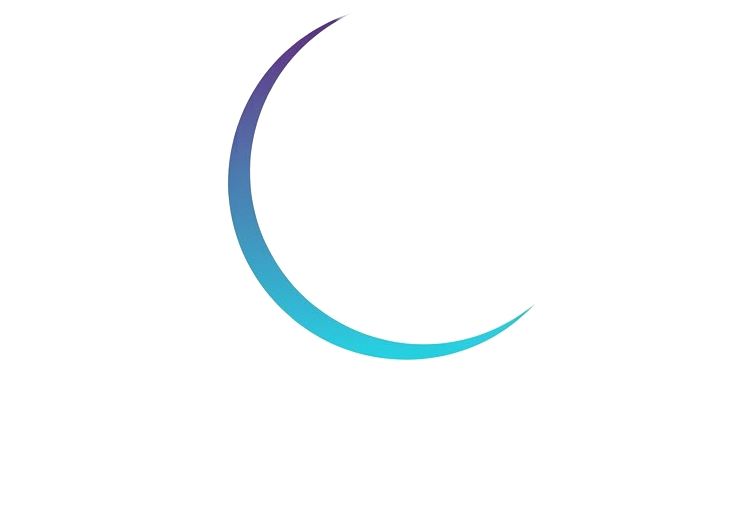
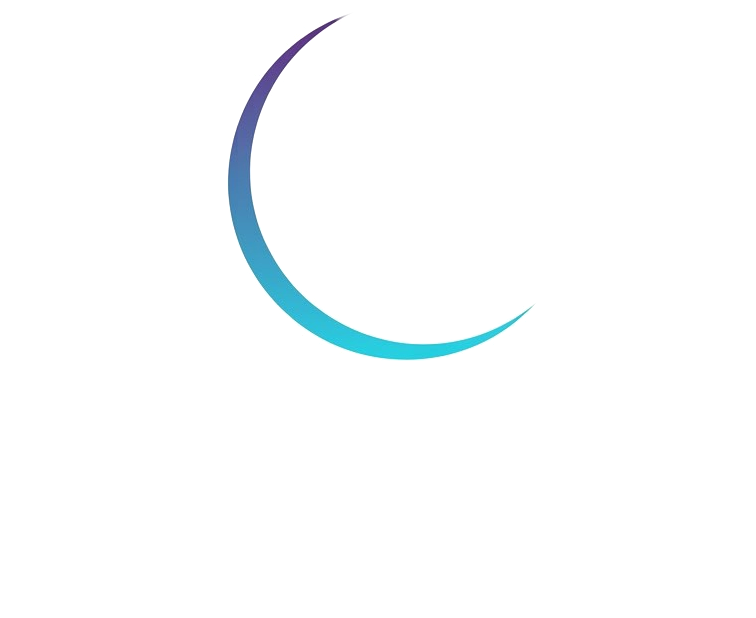
開啟畫面加回流星尾和星星，版本 1.1.1
Logo 右下的流星尾和星星做成第四個圖層（oneiroverse/trail.png），字標出現後劃過、閃一下。

Changed region(s): [[0.3005, 0.0309, 0.7213, 0.7104]]

diff --git a/oneiroverse/splash.js b/oneiroverse/splash.js
@@ -1,10 +1,10 @@
 // Oneiroverse 開啟畫面（所有 Oneiroverse 軟體共用，正本在 OneiHub/brand-kit/，改完用 sync.ps1 複製到各 App）。
 //
 // 用法一：<body> 的第一個元素放 <script src=".../splash.js"></script>，載入時自動在整個視窗上播一次。
-//   同資料夾要有 crescent.png、o.png、wordmark.png（source/make_splash.py 從 Logo 原圖產生）。
+//   同資料夾要有 crescent.png、o.png、wordmark.png、trail.png（source/make_splash.py 從 Logo 原圖產生）。
 //   重新整理 / 上一頁不會再播。<script> 加 data-manual 就只載入不自動播。
 // 用法二：OneiroverseSplash.play({ root, images, onDone })，在指定元素上播（打包工具 import 進來時用這個）。
-//   images 是 { crescent, o, wordmark } 三張圖的網址；沒給時用 splash.js 同資料夾的檔案。
+//   images 是 { crescent, o, wordmark, trail } 四張圖的網址；沒給時用 splash.js 同資料夾的檔案。
 // 點一下或按任意鍵可跳過；系統設定「減少動態效果」時只淡入淡出。
 (() => {
   if (typeof window === "undefined" || window.OneiroverseSplash) return;
@@ -12,7 +12,7 @@
   // 內嵌在 HTML 裡的 <script>（沒有 src）沒有同資料夾可找，這時要用 play({ images }) 自己給圖
   const scriptBase = script?.src ? new URL(".", script.src).href : "";
   // 淺色開啟畫面：圖層以 #f4f9fc 為底色做 color-to-alpha（source/make_splash.py），疊在這個顏色上才會和原圖一樣。
-  const conic = "conic-gradient(from calc(352deg - var(--ov-sw)) at 51.1% 38.2%, transparent 0deg, #000 min(14deg, var(--ov-sw)), #000 var(--ov-sw), transparent var(--ov-sw))";
+  const conic = "conic-gradient(from calc(352deg - var(--ov-sw)) at 49.5% 31.1%, transparent 0deg, #000 min(14deg, var(--ov-sw)), #000 var(--ov-sw), transparent var(--ov-sw))";
   const CSS = `
 @property --ov-sw { syntax: "<angle>"; inherits: false; initial-value: 0deg; }
 html.ov-lock { overflow: hidden; }
@@ -24,14 +24,14 @@ html.ov-lock { overflow: hidden; }
 .ov-splash.ov-fixed { position: fixed; }
 .ov-splash.ov-out { opacity: 0; pointer-events: none; }
 .ov-splash .ov-stars { position: absolute; inset: 0; width: 100%; height: 100%; opacity: 0; }
-.ov-splash .ov-logo { position: relative; width: min(560px, 78%, calc(70cqh * 732 / 518)); aspect-ratio: 732 / 518;
+.ov-splash .ov-logo { position: relative; width: min(580px, 78%, calc(72cqh * 756 / 618)); aspect-ratio: 756 / 618;
   transition: transform .7s cubic-bezier(.4, 0, .2, 1); }
 .ov-splash { container-type: size; }
 .ov-splash.ov-out .ov-logo { transform: scale(1.05); }
 .ov-splash .ov-logo > * { position: absolute; inset: 0; width: 100%; height: 100%; opacity: 0; -webkit-user-drag: none; }
 .ov-splash .ov-crescent { -webkit-mask-image: ${conic}; mask-image: ${conic}; }
 .ov-splash .ov-crescent.ov-drawn { -webkit-mask-image: none; mask-image: none; }
-.ov-splash .ov-o { transform-origin: 51.9% 34%; }
+.ov-splash .ov-o { transform-origin: 51.2% 29%; }
 .ov-splash .ov-shine {
   background: linear-gradient(100deg, transparent 42%, rgba(160, 240, 240, .85) 50%, transparent 58%) 100% 0 / 300% 100% no-repeat;
   -webkit-mask: var(--ov-word) center / 100% 100% no-repeat; mask: var(--ov-word) center / 100% 100% no-repeat; }
@@ -41,6 +41,8 @@ html.ov-lock { overflow: hidden; }
 .ov-splash.ov-play .ov-o { animation: ov-o 1s cubic-bezier(.2, .7, .2, 1) .95s both, ov-pulse 1.1s ease-in-out 2.15s; }
 .ov-splash.ov-play .ov-word { animation: ov-word 1.1s cubic-bezier(.2, .7, .2, 1) 1.4s both; }
 .ov-splash.ov-play .ov-shine { animation: ov-shine 1s ease-in-out 2.2s both; }
+/* 流星尾由左往右劃過，接著星星閃一下 */
+.ov-splash.ov-play .ov-trail { animation: ov-trail .8s cubic-bezier(.3, .6, .3, 1) 2.1s both, ov-twinkle .9s ease-in-out 2.8s; }
 @keyframes ov-fade { from { opacity: 0 } to { opacity: 1 } }
 @keyframes ov-draw { from { --ov-sw: 0deg } to { --ov-sw: 270deg } }
 @keyframes ov-o { from { opacity: 0; transform: scale(.8); filter: blur(10px) saturate(1.6) }
@@ -48,6 +50,8 @@ html.ov-lock { overflow: hidden; }
 @keyframes ov-word { from { opacity: 0; clip-path: inset(0 50% 0 50%); filter: blur(6px); transform: translateY(8px) }
   to { opacity: 1; clip-path: inset(0); filter: none; transform: none } }
 @keyframes ov-shine { from { opacity: 1; background-position: 100% 0 } to { opacity: 1; background-position: 0 0 } }
+@keyframes ov-trail { from { opacity: 0; clip-path: inset(0 100% 0 0) } 30% { opacity: 1 } to { opacity: 1; clip-path: inset(0) } }
+@keyframes ov-twinkle { 50% { filter: brightness(1.15) saturate(1.5) drop-shadow(0 0 6px rgba(170, 160, 235, .8)) } }
 @keyframes ov-pulse { 50% { filter: saturate(1.4) brightness(1.08) } }
 @media (prefers-reduced-motion: reduce) {
   .ov-splash .ov-crescent { -webkit-mask-image: none; mask-image: none; }
@@ -76,7 +80,8 @@ html.ov-lock { overflow: hidden; }
     el.setAttribute("aria-label", "Oneiroverse");
     el.innerHTML = `<canvas class="ov-stars"></canvas><div class="ov-logo">
       <img class="ov-crescent" alt="" src="${src("crescent")}"><img class="ov-o" alt="" src="${src("o")}">
-      <img class="ov-word" alt="" src="${src("wordmark")}"><div class="ov-shine"></div></div>`;
+      <img class="ov-word" alt="" src="${src("wordmark")}"><div class="ov-shine"></div>
+      <img class="ov-trail" alt="" src="${src("trail")}"></div>`;
     el.querySelector(".ov-shine").style.setProperty("--ov-word", `url("${src("wordmark")}")`);
     const crescent = el.querySelector(".ov-crescent");
     crescent.addEventListener("animationend", (e) => e.animationName === "ov-draw" && crescent.classList.add("ov-drawn"));
@@ -145,7 +150,7 @@ html.ov-lock { overflow: hidden; }
       clearTimeout(failsafe);
       el.classList.add("ov-play");
       if (!reduced) raf = requestAnimationFrame(draw);
-      timer = setTimeout(exit, reduced ? 1200 : 3100);
+      timer = setTimeout(exit, reduced ? 1200 : 3600);
     });
 
     return {

diff --git a/run_app.py b/run_app.py
@@ -199,14 +199,14 @@ background:#f4f9fc;color:#1C2833;font-family:'Noto Sans TC','Microsoft JhengHei'
 """
 
 # Oneiroverse 開啟畫面：oneiroverse/ 是 OneiHub/brand-kit 的複本（改那邊再用 sync.ps1 同步，不要直接改）
-SPLASH_LAYERS = ("crescent", "o", "wordmark")
+SPLASH_LAYERS = ("crescent", "o", "wordmark", "trail")
 
 
 def loading_html() -> str:
     """啟動頁：先播 Oneiroverse 開啟畫面，播完留下「正在啟動」的文字。
 
     pywebview 用 html= 開的頁面沒有網址，讀不到旁邊的檔案，
-    所以把 splash.js 直接寫進頁面、三張 Logo 圖轉成 data: 網址（把圖片內容編碼進字串裡）。
+    所以把 splash.js 直接寫進頁面、四張 Logo 圖轉成 data: 網址（把圖片內容編碼進字串裡）。
     播完會設定 window.ovDone = true，main() 等到這個值和伺服器都準備好才換頁。
     少了任何一個檔案就只顯示文字，不影響啟動。
     """

diff --git a/installer/build_runtime.py b/installer/build_runtime.py
@@ -45,7 +45,8 @@ EMBED_VERSIONS = {
 APP_FILES = ["app.py", "db.py", "quotes.py", "run_app.py", "update_check.py", "version.py",
              ".streamlit/config.toml",
              # Oneiroverse 開啟畫面（run_app.py 的啟動頁用）
-             "oneiroverse/splash.js", "oneiroverse/crescent.png", "oneiroverse/o.png", "oneiroverse/wordmark.png"] + \
+             "oneiroverse/splash.js", "oneiroverse/crescent.png", "oneiroverse/o.png", "oneiroverse/wordmark.png",
+             "oneiroverse/trail.png"] + \
     [os.path.relpath(p, ROOT) for p in glob.glob(os.path.join(ROOT, "models", "*.py"))]
 
 

diff --git a/version.py b/version.py
@@ -5,4 +5,4 @@
 啟動時會拿它和 Onei Hub 伺服器上的「最低可用版本」比較，太舊就要求更新（見 update_check.py）。
 """
 
-APP_VERSION = "1.1.0"
+APP_VERSION = "1.1.1"
